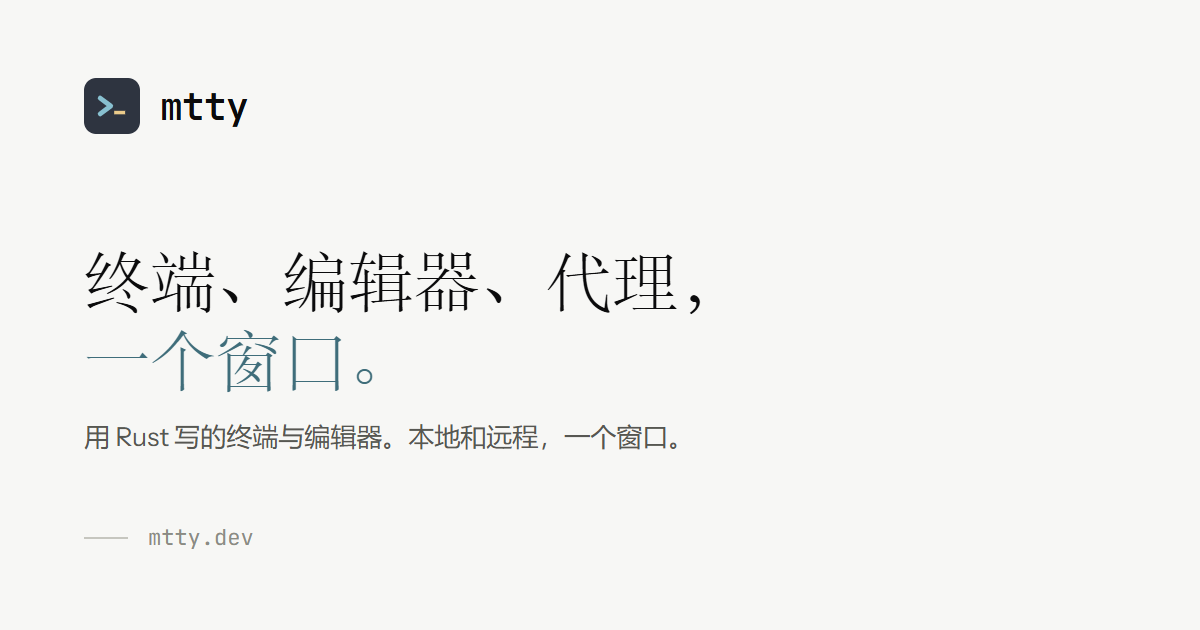
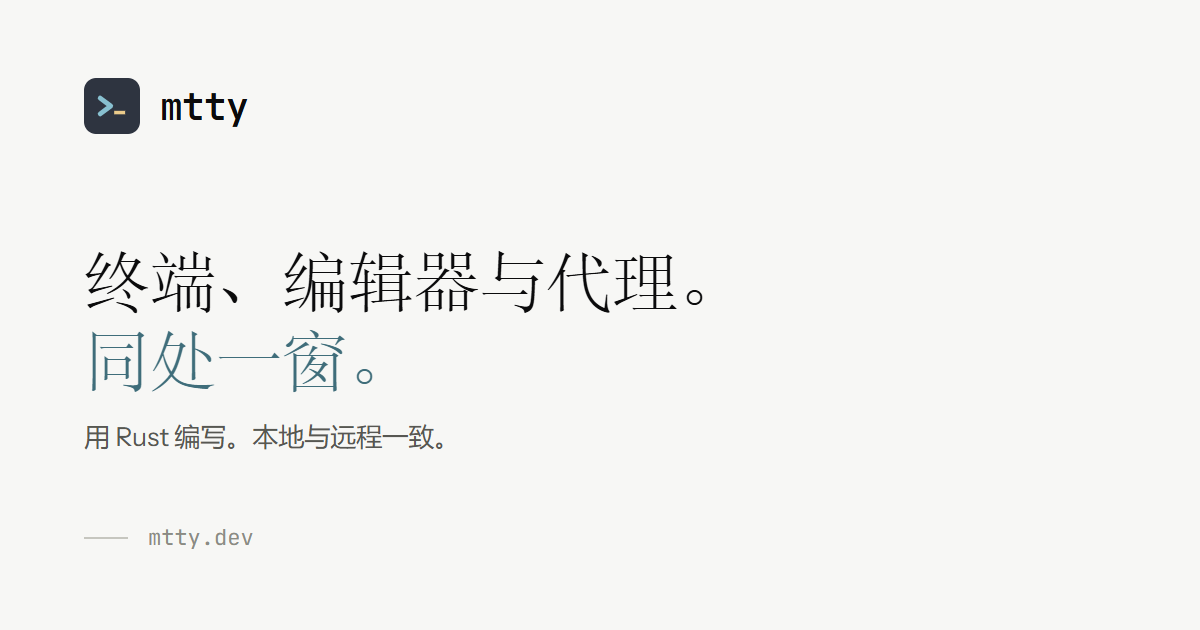
feat(site): tighten the marketing copy and drop colloquial phrasing
Headlines become noun phrases, each supporting paragraph is cut to a sentence, and conversational wording ('干活', '盯', '账单', '被拦下') is removed. Screenshots, tables and command blocks now carry the detail. OG cards follow the same lines.

diff --git a/scripts/og.ts b/scripts/og.ts
@@ -101,20 +101,20 @@ const cards: Card[] = [
     lang: "en",
     mark: siteMark,
     name: "",
-    headline: "It reads your repo,",
-    accent: "then waits for you.",
+    headline: "A coding agent",
+    accent: "for the terminal.",
     ink: "var(--miao-2)",
-    sub: "miao, an open-source coding agent for the terminal. mtty, a terminal and editor in Rust.",
+    sub: "Open source. Lean context, visible cost, one-line install.",
   },
   {
     file: "home-zh.png",
     lang: "zh",
     mark: siteMark,
     name: "",
-    headline: "它读你的仓库，",
-    accent: "然后等你。",
+    headline: "终端里的",
+    accent: "编码代理。",
     ink: "var(--miao-2)",
-    sub: "miao，开源的终端编码代理。mtty，用 Rust 写的终端与编辑器。",
+    sub: "开源。上下文精简，费用可见，一行安装。",
   },
   {
     file: "miao-en.png",
@@ -124,7 +124,7 @@ const cards: Card[] = [
     headline: "Read first.",
     accent: "Then edit.",
     ink: "var(--miao-2)",
-    sub: "Lean context, a readable bill, one-line install.",
+    sub: "Lean context, visible cost, one-line install.",
   },
   {
     file: "miao-zh.png",
@@ -134,7 +134,7 @@ const cards: Card[] = [
     headline: "先看懂，",
     accent: "再动手。",
     ink: "var(--miao-2)",
-    sub: "开源的终端编码代理。上下文收得紧，装起来只有一行。",
+    sub: "上下文精简，费用逐轮记录。",
   },
   {
     file: "mtty-en.png",
@@ -144,17 +144,17 @@ const cards: Card[] = [
     headline: "Terminal, editor,",
     accent: "agents in one window.",
     ink: "var(--mtty-accent)",
-    sub: "A terminal and editor written in Rust. Local and remote, in one window.",
+    sub: "A terminal and editor in Rust. Local and remote.",
   },
   {
     file: "mtty-zh.png",
     lang: "zh",
     mark: mttyMark,
     name: "mtty",
-    headline: "终端、编辑器、代理，",
-    accent: "一个窗口。",
+    headline: "终端、编辑器与代理。",
+    accent: "同处一窗。",
     ink: "var(--mtty-accent)",
-    sub: "用 Rust 写的终端与编辑器。本地和远程，一个窗口。",
+    sub: "用 Rust 编写。本地与远程一致。",
   },
 ]
 
